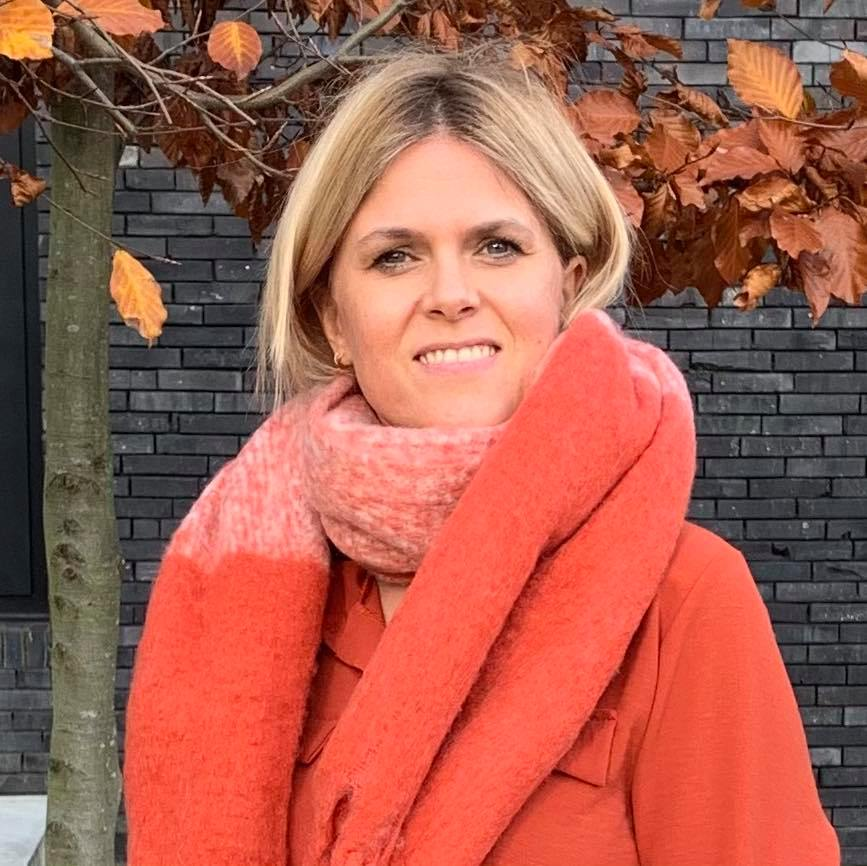
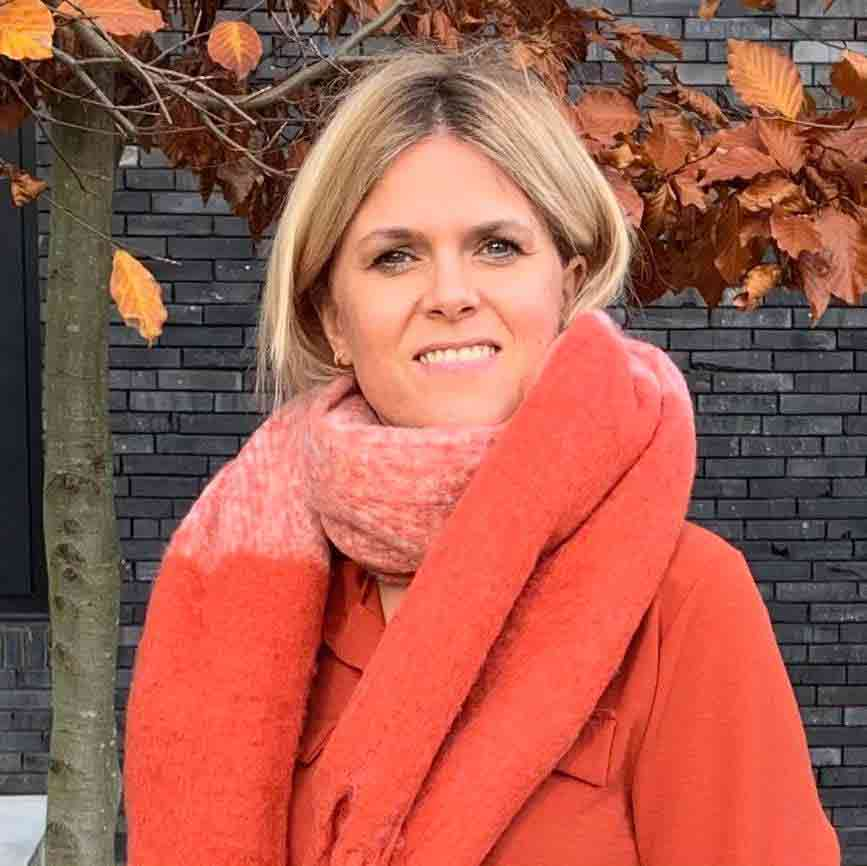
Updated

diff --git a/index.html b/index.html
@@ -79,7 +79,7 @@
 
     <!-- Image header -->
     <header class="w3-display-container w3-wide" id="home">
-        <img class="w3-image w3-opacity mainfoto" src="Fotos/nl_NL_673093_full.webp" alt="Fashion Blog" width="1600" height="1060">
+        <img class="w3-image w3-opacity mainfoto" src="Fotos/main.jpg" alt="Fashion Blog" width="1600" height="1060">
         <div class="w3-display-middle w3-padding-large text-center grote">
             <h1 class="w3-jumbo w3-text-black w3-hide-small"><b class="headersus">Sus &amp; Mus</b></h1>
             <h5 class="w3-text-black">Juwelen, handtassen, sjaals en accessoires</h5>
